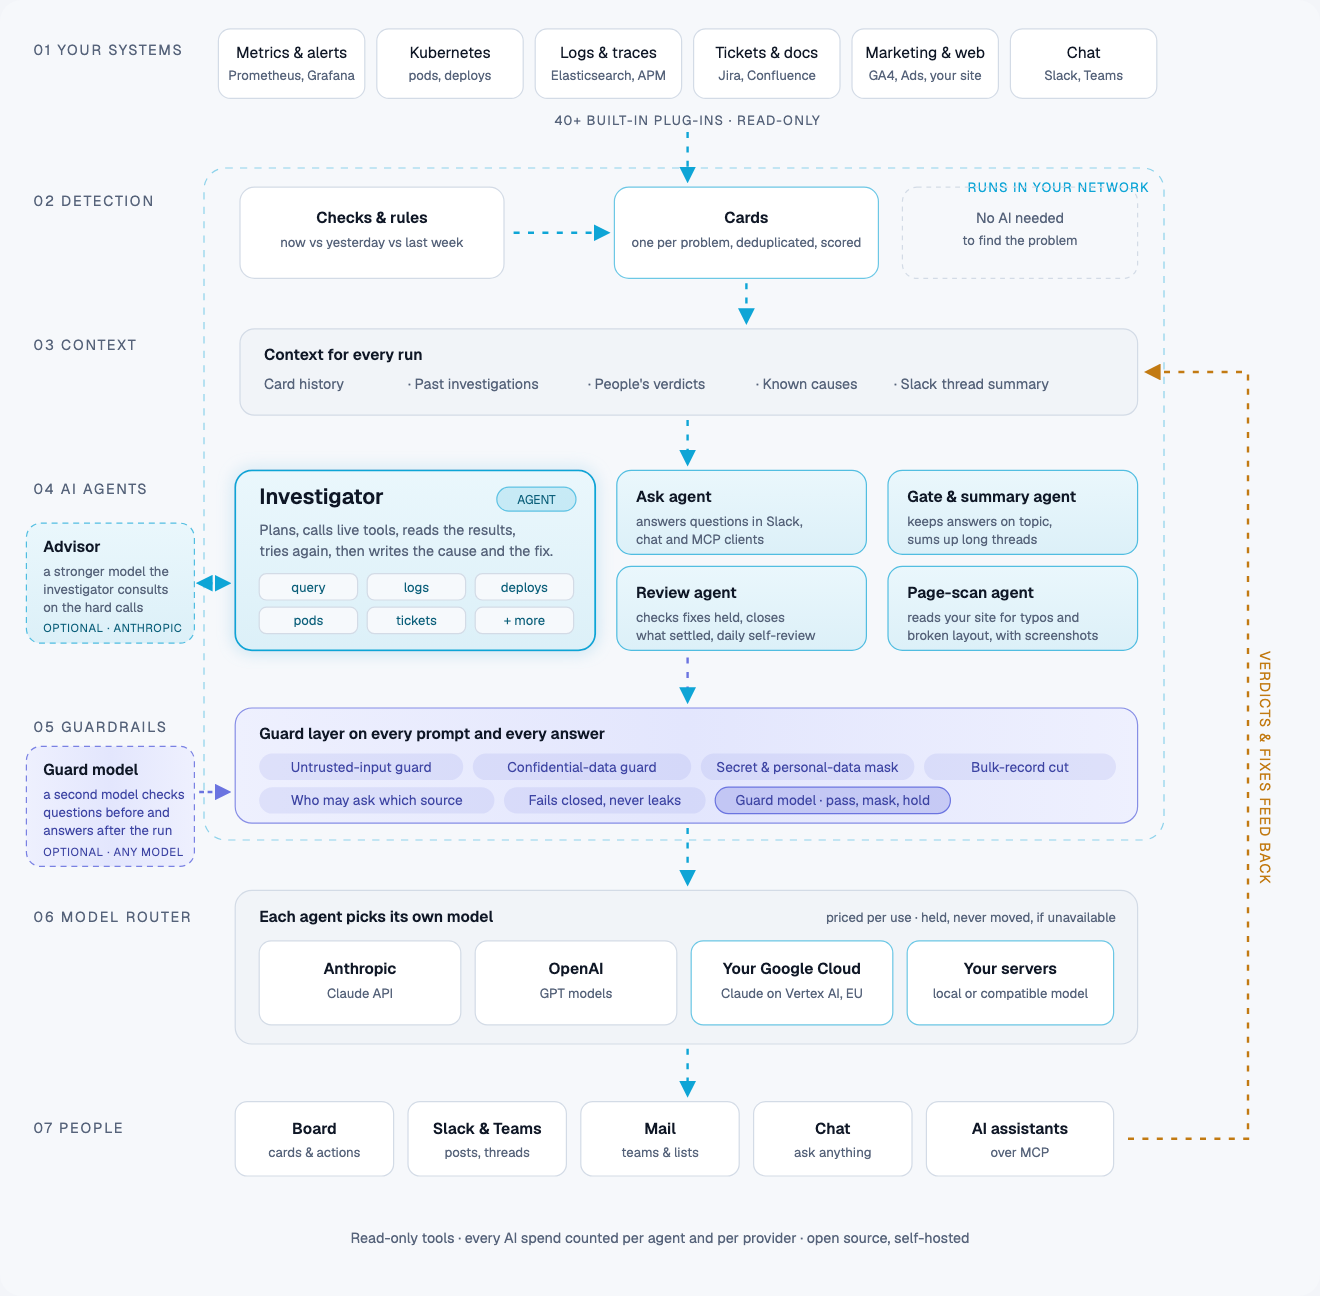
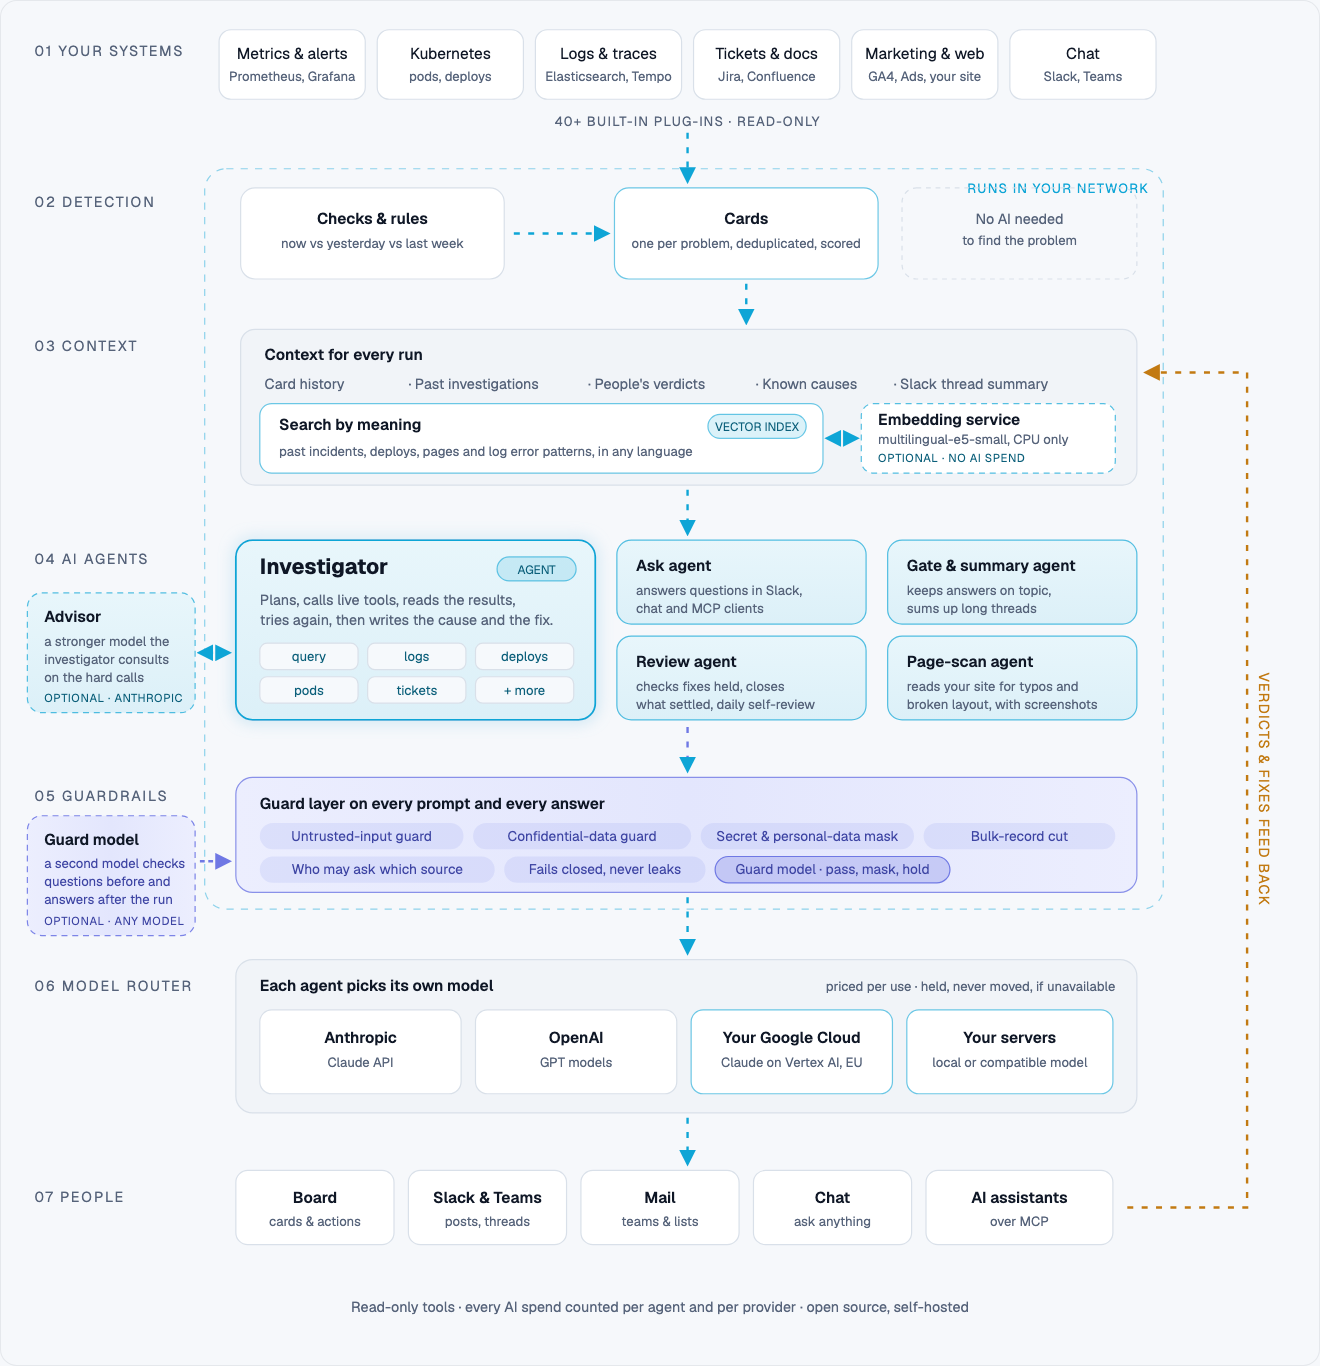
fix(semantic): mask search queries, keep card descriptions, relative cut; README and architecture
Search queries are masked before embedding and fall back to word matches when masking fails; the UI search normalises log lines. Card history keeps the card description. Hits more than 0.05 below the best hit are dropped. Link-local and metadata addresses get their own refusal message. The import order of the search module no longer matters. README describes Search by meaning and Tempo traces, with updated architecture images.

diff --git a/tests/test_semantic_search.py b/tests/test_semantic_search.py
@@ -654,7 +654,7 @@ def blended(base: np.ndarray, cosine: float) -> list[float]:
 def test_hits_below_the_threshold_are_dropped_and_scores_are_rounded(box, store):
     # given
     base = np.array(embed_text(QUERY))
-    for ref, cosine in (('strong', 0.93), ('edge-in', 0.82), ('edge-out', 0.78), ('weak', 0.4)):
+    for ref, cosine in (('strong', 0.86), ('edge-in', 0.82), ('edge-out', 0.78), ('weak', 0.4)):
         add_run(store, ref)
         box.put('run', ref, svc=SVC, trigger='review', vec=blended(base, cosine))
 
@@ -663,7 +663,7 @@ def test_hits_below_the_threshold_are_dropped_and_scores_are_rounded(box, store)
 
     # then
     assert refs(result) == ['strong', 'edge-in']
-    assert [h.score for h in result.items] == [0.93, 0.82]
+    assert [h.score for h in result.items] == [0.86, 0.82]
     assert all(round(h.score, 2) == h.score for h in result.items)
 
 
@@ -883,3 +883,96 @@ def test_guard_refused_asks_are_not_in_the_word_fallback(box, store):
 
     # then
     assert refs(result) == ['ok']
+
+
+SECRET = 'AKIAIOSFODNN7EXAMPLE'
+
+
+def test_a_secret_and_an_email_in_the_query_never_reach_the_embedder(box, store):
+    # given
+    add_run(store, 'ok')
+    box.put('run', 'ok', svc=SVC, trigger='review')
+
+    # when
+    result = box.run(SearchContext.ui('viewer'), text=f'pool exhausted for alice@example.com with key {SECRET}')
+
+    # then
+    sent = box.fake.texts
+    assert len(sent) == 1 and SECRET not in sent[0] and 'alice@example.com' not in sent[0] and 'pool exhausted' in sent[0]
+    assert result.semantic is True
+
+
+def test_a_masking_timeout_falls_back_without_calling_the_service(box, store, monkeypatch):
+    # given
+    add_run(store, 'ok')
+    box.put('run', 'ok', svc=SVC, trigger='review')
+    monkeypatch.setattr(chunks, 'redact_text', lambda text, limit=None: sr.TIMEOUT_MARK)
+
+    # when
+    result = box.run(SearchContext.ui('viewer'))
+
+    # then
+    assert result.semantic is False and result.note and box.fake.calls == []
+
+
+def test_a_query_that_masks_to_nothing_falls_back_without_calling_the_service(box, store):
+    # given
+    add_run(store, 'ok')
+
+    # when
+    result = box.run(SearchContext.card_run(), text=SECRET)
+
+    # then
+    assert result.semantic is False and result.note and result.items == [] and box.fake.calls == []
+
+
+def test_the_word_fallback_still_reads_the_raw_text_locally(box, store, monkeypatch):
+    # given
+    add_run(store, 'ok', recap='The retry storm hit alice@example.com')
+    monkeypatch.setattr(chunks, 'redact_text', lambda text, limit=None: sr.TIMEOUT_MARK)
+
+    # when
+    result = box.run(SearchContext.ui('viewer'), text='alice@example.com')
+
+    # then
+    assert result.semantic is False and refs(result) == ['ok'] and box.fake.calls == []
+
+
+def test_hits_far_below_the_best_hit_are_dropped(box, store):
+    # given
+    base = np.array(embed_text(QUERY))
+    for ref, cosine in (('best', 0.95), ('near', 0.91), ('far', 0.83)):
+        add_run(store, ref)
+        box.put('run', ref, svc=SVC, trigger='review', vec=blended(base, cosine))
+
+    # when
+    result = box.run(SearchContext.ui('viewer'), limit=20)
+
+    # then
+    assert refs(result) == ['best', 'near']
+
+
+def test_the_relative_cut_is_keyed_by_model():
+    # given
+    sr.RELATIVE_CUTS['other/model'] = 0.2
+
+    # when
+    try:
+        cuts = [sr.relative_cut('other/model'), sr.relative_cut(EMBED_MODEL), sr.relative_cut('unknown/model')]
+    finally:
+        del sr.RELATIVE_CUTS['other/model']
+
+    # then
+    assert cuts == [0.2, 0.05, 0.05]
+
+
+def test_the_search_module_imports_first_in_a_fresh_interpreter():
+    # given
+    import subprocess
+    import sys
+
+    # when
+    done = subprocess.run([sys.executable, '-c', 'import skopax.semantic.search'], capture_output=True, text=True, timeout=120)
+
+    # then
+    assert done.returncode == 0, done.stderr

diff --git a/skopax/embedclient.py b/skopax/embedclient.py
@@ -38,14 +38,18 @@ resolve = socket.getaddrinfo
 
 
 class EmbedError(Authored, Exception):
-    def __init__(self, kind: str, counts: bool = True):
-        text = msg('embed.reason.no_url') if kind == 'off' else msg(f'embed.{kind}')
+    def __init__(self, kind: str, counts: bool = True, local: bool = False):
+        text = msg('embed.reason.no_url') if kind == 'off' else msg('embed.blocked') if local else msg(f'embed.{kind}')
         super().__init__(text)
         self.kind = kind
         self.counts = counts
 
 
 class RefusedAddress(Exception):
+    pass
+
+
+class BlockedAddress(RefusedAddress):
     pass
 
 
@@ -72,7 +76,7 @@ def addresses(host: str, port: int | None) -> list:
 
 def check_addresses(found: list, allow_public: bool) -> None:
     if any(ip is None or blocked(ip) for ip in found):
-        raise RefusedAddress()
+        raise BlockedAddress()
     if not allow_public and any(not inside(ip) for ip in found):
         raise RefusedAddress()
 
@@ -229,6 +233,8 @@ def checked_target(url: str, allow_public: bool) -> str:
         raise EmbedError('down')
     try:
         check_addresses(found, allow_public)
+    except BlockedAddress:
+        raise EmbedError('refused', local=True) from None
     except RefusedAddress:
         raise EmbedError('refused') from None
     return base
@@ -328,6 +334,9 @@ class EmbedClient:
             (self.breaker.failure if e.counts else self.breaker.neutral)(e.kind, ticket)
             log.warning('the embedding service call failed: %s', e.kind)
             raise
+        except BlockedAddress:
+            self.breaker.neutral('refused', ticket)
+            raise EmbedError('refused', local=True) from None
         except RefusedAddress:
             self.breaker.neutral('refused', ticket)
             raise EmbedError('refused') from None

diff --git a/skopax/semantic/search.py b/skopax/semantic/search.py
@@ -34,6 +34,8 @@ MAX_LIMIT = 20
 QUERY_MAX = 500
 MIN_SCORE = 0.80
 MIN_SCORES = {EMBED_MODEL: 0.80}
+RELATIVE_CUT = 0.05
+RELATIVE_CUTS = {EMBED_MODEL: RELATIVE_CUT}
 SCORE_DIGITS = 2
 EXCERPT = 300
 TITLE = 120
@@ -131,6 +133,10 @@ def usable_knowledge(runtime, allowed: Callable[[object], bool] | None = None) -
             continue
         for item in plugin.knowledge:
             yield plugin.id, '', item
+
+
+def relative_cut(model: str) -> float:
+    return RELATIVE_CUTS.get(model, RELATIVE_CUT)
 
 
 def looks_like_log_line(text: str) -> bool:
@@ -235,8 +241,11 @@ class Searcher:
         return None
 
     def semantic(self, ctx: SearchContext, s, query: str, chosen: list[str], limit: int, service: str | None) -> SearchResult:
+        safe = chunks.masked(query)
+        if safe is None:
+            return self.fallback(ctx, query, chosen, limit, service, msg('embed.reason.query'))
         try:
-            vector = self.client.embed_queries([query])[0]
+            vector = self.client.embed_queries([safe])[0]
         except EmbedError as e:
             return self.fallback(ctx, query, chosen, limit, service, e.text)
         except Exception as e:
@@ -281,6 +290,10 @@ class Searcher:
             if parsed is None or parsed[0] not in chosen or score < floor:
                 continue
             best[parsed] = max(score, best.get(parsed, score))
+        if best:
+            top = max(best.values())
+            cut = relative_cut(s.embed_model)
+            best = {p: v for p, v in best.items() if v >= top - cut}
         ranked = sorted(best.items(), key=lambda t: (-t[1], t[0]))[:limit * CANDIDATES]
         return SearchResult(True, note, rebuilding, self.hydrate(ctx, ranked, limit))
 

diff --git a/tests/test_semantic_indexer.py b/tests/test_semantic_indexer.py
@@ -871,3 +871,17 @@ def test_guard_refused_runs_are_never_indexed(box, store):
     assert box.refs('run') == {'ok'}
     assert ix.Indexer.eligible(box.indexer, ix.BY_NAME['run'], {'outcome': 'done', 'trigger': 'review', 'error': 'Refused by the guard'}) is False
     assert ix.chunks.run_passages({'_id': 'x', 'outcome': 'done', 'trigger': 'review', 'ask': {'text': 'q'}, 'recap': 'a', 'error': 'Refused by the guard'}) == []
+
+
+def test_an_occurrence_keeps_its_what_without_a_live_card(box, store):
+    # given
+    did = store.record_card({'key': KEY, 'svc': 'checkout-service', 'label': 'High CPU', 'sub': 'pod-a', 'sev': 'warn', 'firstSeen': '2026-11-20T09:00:00Z', 'lastSeen': '2026-11-20T09:00:00Z',
+                             'what': 'CPU above 90 percent for 10 minutes ' + 'x' * 3000}, 'cleared')
+
+    # when
+    drain(box, 2)
+
+    # then
+    stored = store.card_history.find_one({'_id': did})
+    assert len(stored['what']) <= 1001 and stored['what'].startswith('CPU above 90 percent')
+    assert any('what: CPU above 90 percent for 10 minutes' in t for t in box.fake.texts)

diff --git a/tests/test_semantic_api.py b/tests/test_semantic_api.py
@@ -367,3 +367,25 @@ def test_the_throttle_message_is_translated_and_outbound(lang):
 
     # then
     assert messages.outbound('search.throttled') and pack['search.throttled'].strip() and pack['search.throttled'] != messages.MESSAGES['search.throttled']
+
+
+def test_a_log_line_in_the_ui_query_is_normalised_like_the_investigator_does(store, box):
+    # given
+    seen = []
+
+    class Spy:
+        def search(self, ctx, text, kinds, limit, service=None):
+            seen.append((text, kinds))
+            return SearchResult(True, None, None, [])
+
+    client = make(store, box, role='viewer')
+    client.app.state.semantic_searcher = Spy()
+    line = '2026-11-20T10:00:00Z ERROR connection refused to 10.1.2.3:5432 request 8f14e45f-ceea-467f-a0e6-b3a2f0f4c9d1'
+
+    # when
+    client.get('/api/search', params={'q': line})
+    client.get('/api/search', params={'q': line, 'kinds': 'errors'})
+    client.get('/api/search', params={'q': line, 'kinds': 'runs'})
+
+    # then
+    assert seen[0][0] != line and seen[0][0] == seen[1][0] and seen[2][0] == line

diff --git a/skopax/messages.py b/skopax/messages.py
@@ -1367,8 +1367,10 @@ MESSAGES: dict[str, str] = {
     'embed.reason.disabled': 'it is turned off in Admin \u203a Features',
     'embed.reason.no_url': 'no embedding service address is set',
     'embed.reason.not_ready': 'the index is not ready yet',
+    'embed.reason.query': 'the query could not be made safe to send',
     'embed.down': 'the embedding service is not answering',
     'embed.refused': 'the embedding service address is public and not allowed',
+    'embed.blocked': 'the embedding service address is a link-local or metadata address and is never allowed',
     'embed.mismatch': 'the embedding service runs another model than the one set',
     'embed.auth': 'the embedding service did not accept the key',
     'embed.bad_answer': 'the embedding service sent an answer that cannot be used',

diff --git a/skopax/investigator/similar.py b/skopax/investigator/similar.py
@@ -9,7 +9,6 @@ from skopax.investigator import prompt
 from skopax.investigator.tools import similar_row
 from skopax.investigator.flags import REQUESTS, SOFT, safe_excerpt, scan
 from skopax.redact import masked_tree
-from skopax.semantic.search import SearchContext
 
 log = logging.getLogger(__name__)
 
@@ -106,6 +105,7 @@ def brief_block(toolbox, cards: list[dict], clock: Callable[[], float] = time.mo
     searcher = toolbox.sources.similar
     if not cards or not wanted(toolbox.settings, searcher):
         return ''
+    from skopax.semantic.search import SearchContext
     ctx = SearchContext.card_run(toolbox.run_kind(), toolbox._searched)
     hits = search(searcher, ctx, cards, toolbox.run_id, clock, budget)
     rows = [r for r in (similar_row(h) for h in hits) if r is not None]

diff --git a/skopax/app.py b/skopax/app.py
@@ -2823,6 +2823,8 @@ def create_app(settings: Settings | None = None, store: Store | None = None, sla
         if held is None:
             raise HTTPException(status.HTTP_429_TOO_MANY_REQUESTS, msg('search.throttled'), headers={'Retry-After': str(search_retry_after(who))})
         index_kinds = [i for k in wanted for i in semantic_shape.UI_KINDS[k]] if wanted else None
+        if index_kinds is None or 'errtpl' in index_kinds:
+            text = semantic_search.normalise_query(text)
         try:
             found = app.state.semantic_searcher.search(semantic_search.SearchContext.ui(role), text, index_kinds, limit)
         except semantic_search.SearchUnavailable:

diff --git a/tests/test_embed_settings.py b/tests/test_embed_settings.py
@@ -218,7 +218,7 @@ def test_admin_saves_in_range_values_and_normalises_the_prefix(live):
 
 
 LANGS = ('de', 'es', 'fr', 'tr')
-NOTES = ('embed.off', 'embed.reason.disabled', 'embed.reason.no_url', 'embed.down', 'embed.refused', 'embed.mismatch', 'embed.auth', 'embed.bad_answer', 'embed.rebuilding', 'embed.needs_url', 'embed.sources_invalid')
+NOTES = ('embed.off', 'embed.reason.disabled', 'embed.reason.no_url', 'embed.down', 'embed.refused', 'embed.blocked', 'embed.mismatch', 'embed.auth', 'embed.bad_answer', 'embed.rebuilding', 'embed.needs_url', 'embed.sources_invalid')
 
 
 def test_the_notes_are_english_messages_and_outbound():

diff --git a/tests/test_embedclient.py b/tests/test_embedclient.py
@@ -349,7 +349,7 @@ def test_metadata_and_link_local_addresses_are_always_refused(monkeypatch, ip, a
     error = failing(make(service, embed_allow_public=allow_public))
 
     # then
-    assert error.kind == 'refused' and service.requests == []
+    assert error.kind == 'refused' and error.text == msg('embed.blocked') != msg('embed.refused') and 'public' not in error.text and service.requests == []
 
 
 def test_one_bad_address_among_good_ones_refuses_the_name(monkeypatch):

diff --git a/skopax/history.py b/skopax/history.py
@@ -213,6 +213,8 @@ def outcome(card: dict, ev: str, previous: str | None = None) -> str:
 
 def snapshot(card: dict) -> dict:
     out = {f: card.get(f) for f in CARD_FIELDS if card.get(f) is not None}
+    if card.get('what'):
+        out['what'] = cut(card['what'], TEXT_LIMIT)
     note = note_text(card.get('note'))
     if note:
         out['note'] = note

diff --git a/README.md b/README.md
@@ -47,9 +47,11 @@ Status: 0.7.0 is the current release; 0.1.0 was the first stable one. Since 0.1.
 
 ## How it works
 
-<a href="docs/images/architecture-dark.png#gh-dark-mode-only"><img width="720" src="docs/images/architecture-dark.png#gh-dark-mode-only" alt="Skopax architecture in seven layers: your systems feed checks that turn problems into cards without AI; the card history, past investigations and verdicts form the context; an investigator agent with live read-only tools, which can consult an optional stronger advisor model, and four focused agents (ask, gate and summary, review, page scan) do the AI work; a guard layer masks secrets and personal data, cuts bulk records and keeps sources out of questions, and an optional guard model on any provider checks questions before the run and answers before they are posted; each agent picks its model (Anthropic, OpenAI, Claude on your own Google Cloud in the EU, or a local model); answers reach the board, Slack and Teams, mail, chat and MCP clients, and people's verdicts feed back into the context"></a><a href="docs/images/architecture-light.png#gh-light-mode-only"><img width="720" src="docs/images/architecture-light.png#gh-light-mode-only" alt="Skopax architecture in seven layers: your systems feed checks that turn problems into cards without AI; the card history, past investigations and verdicts form the context; an investigator agent with live read-only tools, which can consult an optional stronger advisor model, and four focused agents (ask, gate and summary, review, page scan) do the AI work; a guard layer masks secrets and personal data, cuts bulk records and keeps sources out of questions, and an optional guard model on any provider checks questions before the run and answers before they are posted; each agent picks its model (Anthropic, OpenAI, Claude on your own Google Cloud in the EU, or a local model); answers reach the board, Slack and Teams, mail, chat and MCP clients, and people's verdicts feed back into the context"></a>
+<a href="docs/images/architecture-dark.png#gh-dark-mode-only"><img width="720" src="docs/images/architecture-dark.png#gh-dark-mode-only" alt="Skopax architecture in seven layers: your systems feed checks that turn problems into cards without AI; the card history, past investigations and verdicts form the context, with an optional search by meaning over past incidents, deploys, pages and log error patterns fed by an embedding service inside your network; an investigator agent with live read-only tools, including Tempo traces read through Grafana, which can consult an optional stronger advisor model, and four focused agents (ask, gate and summary, review, page scan) do the AI work; a guard layer masks secrets and personal data, cuts bulk records and keeps sources out of questions, and an optional guard model on any provider checks questions before the run and answers before they are posted; each agent picks its model (Anthropic, OpenAI, Claude on your own Google Cloud in the EU, or a local model); answers reach the board, Slack and Teams, mail, chat and MCP clients, and people's verdicts feed back into the context"></a><a href="docs/images/architecture-light.png#gh-light-mode-only"><img width="720" src="docs/images/architecture-light.png#gh-light-mode-only" alt="Skopax architecture in seven layers: your systems feed checks that turn problems into cards without AI; the card history, past investigations and verdicts form the context, with an optional search by meaning over past incidents, deploys, pages and log error patterns fed by an embedding service inside your network; an investigator agent with live read-only tools, including Tempo traces read through Grafana, which can consult an optional stronger advisor model, and four focused agents (ask, gate and summary, review, page scan) do the AI work; a guard layer masks secrets and personal data, cuts bulk records and keeps sources out of questions, and an optional guard model on any provider checks questions before the run and answers before they are posted; each agent picks its model (Anthropic, OpenAI, Claude on your own Google Cloud in the EU, or a local model); answers reach the board, Slack and Teams, mail, chat and MCP clients, and people's verdicts feed back into the context"></a>
 
 Checks find the problem without AI. Focused AI agents investigate and explain it behind a guard layer that masks secrets and personal data before the model reads them, and each agent can run on the AI you choose. See [What is masked](docs/privacy.md#what-is-masked) and [What Skopax will not hand out](docs/privacy.md#what-skopax-will-not-hand-out).
+
+Search by meaning finds earlier incidents, deploys, pages and log error patterns by what they say, in any language, for the investigator's `find_similar` tool, the header search box and the brief of each card investigation. It is off by default and uses vector embeddings from a multilingual embedding service that runs inside your network, with no AI spend. See [Search by meaning](docs/operations.md#search-by-meaning) and [What is embedded](docs/privacy.md#what-is-embedded).
 
 ## Plug-ins: connect what you already run
 
@@ -59,7 +61,7 @@ Everything Skopax watches comes through plug-ins, and more than 30 of them ship 
 
 | Area | Plug-ins |
 |---|---|
-| Metrics, logs and alerts | Prometheus, Elasticsearch, Loki, Grafana, Zabbix, CloudWatch |
+| Metrics, logs, traces and alerts | Prometheus, Elasticsearch, Loki, Grafana (with Tempo traces), Zabbix, CloudWatch |
 | Infrastructure | Kubernetes, Argo CD, Kafka, Redis, PMM (Postgres, MongoDB), Airbyte, Capacity, Batch jobs |
 | Web and edge | Website, Cloudflare, Varnish, Chrome UX Report, CSP reports, Safe Browsing |
 | Apps | App stores, Crashlytics |
